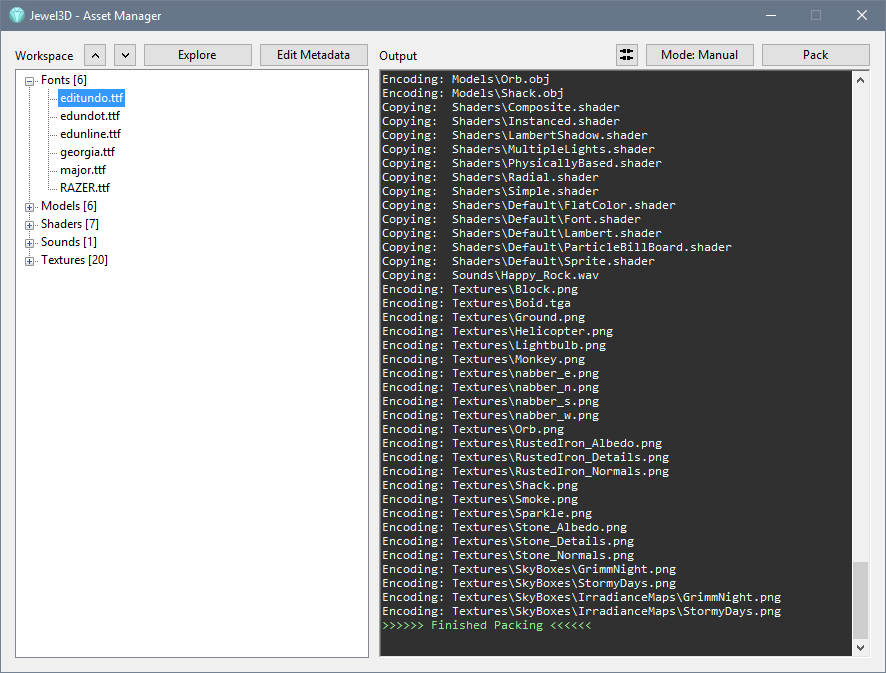
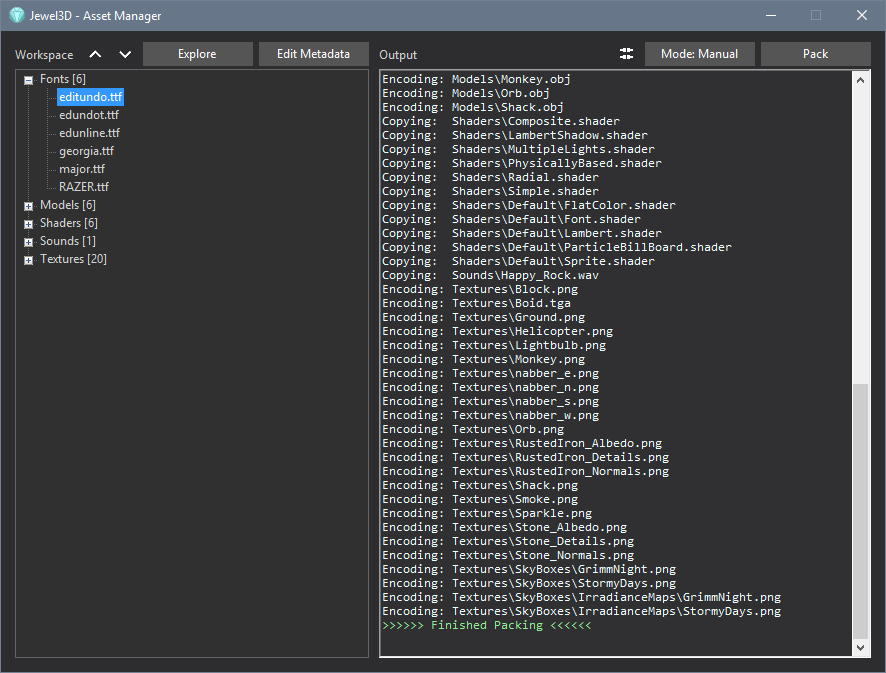
AssetManager now is now dark themed

diff --git a/Tools/AssetManager/Manager.Designer.cs b/Tools/AssetManager/Manager.Designer.cs
@@ -44,17 +44,23 @@
 			// 
 			// ButtonPack
 			// 
-			this.ButtonPack.Location = new System.Drawing.Point(760, 12);
+			this.ButtonPack.BackColor = System.Drawing.Color.FromArgb(((int)(((byte)(85)))), ((int)(((byte)(85)))), ((int)(((byte)(85)))));
+			this.ButtonPack.FlatAppearance.BorderSize = 0;
+			this.ButtonPack.FlatStyle = System.Windows.Forms.FlatStyle.Flat;
+			this.ButtonPack.ForeColor = System.Drawing.SystemColors.ControlLightLight;
+			this.ButtonPack.Location = new System.Drawing.Point(760, 11);
 			this.ButtonPack.Name = "ButtonPack";
 			this.ButtonPack.Size = new System.Drawing.Size(110, 24);
 			this.ButtonPack.TabIndex = 1;
 			this.ButtonPack.Text = "Pack";
-			this.ButtonPack.UseVisualStyleBackColor = true;
+			this.ButtonPack.UseVisualStyleBackColor = false;
 			this.ButtonPack.Click += new System.EventHandler(this.ButtonPack_Click);
 			// 
 			// treeViewAssets
 			// 
-			this.treeViewAssets.BackColor = System.Drawing.SystemColors.Window;
+			this.treeViewAssets.BackColor = System.Drawing.Color.FromArgb(((int)(((byte)(48)))), ((int)(((byte)(48)))), ((int)(((byte)(48)))));
+			this.treeViewAssets.BorderStyle = System.Windows.Forms.BorderStyle.FixedSingle;
+			this.treeViewAssets.ForeColor = System.Drawing.Color.LightGray;
 			this.treeViewAssets.Location = new System.Drawing.Point(14, 38);
 			this.treeViewAssets.Margin = new System.Windows.Forms.Padding(5, 3, 5, 3);
 			this.treeViewAssets.Name = "treeViewAssets";
@@ -64,7 +70,8 @@
 			// labelWorkspace
 			// 
 			this.labelWorkspace.AutoSize = true;
-			this.labelWorkspace.Location = new System.Drawing.Point(11, 17);
+			this.labelWorkspace.ForeColor = System.Drawing.Color.LightGray;
+			this.labelWorkspace.Location = new System.Drawing.Point(11, 16);
 			this.labelWorkspace.Name = "labelWorkspace";
 			this.labelWorkspace.Size = new System.Drawing.Size(65, 15);
 			this.labelWorkspace.TabIndex = 12;
@@ -72,19 +79,24 @@
 			// 
 			// buttonWorkspaceOpen
 			// 
-			this.buttonWorkspaceOpen.Location = new System.Drawing.Point(142, 12);
+			this.buttonWorkspaceOpen.BackColor = System.Drawing.Color.FromArgb(((int)(((byte)(85)))), ((int)(((byte)(85)))), ((int)(((byte)(85)))));
+			this.buttonWorkspaceOpen.FlatAppearance.BorderSize = 0;
+			this.buttonWorkspaceOpen.FlatStyle = System.Windows.Forms.FlatStyle.Flat;
+			this.buttonWorkspaceOpen.ForeColor = System.Drawing.SystemColors.ControlLightLight;
+			this.buttonWorkspaceOpen.Location = new System.Drawing.Point(142, 11);
 			this.buttonWorkspaceOpen.Name = "buttonWorkspaceOpen";
 			this.buttonWorkspaceOpen.Size = new System.Drawing.Size(110, 24);
 			this.buttonWorkspaceOpen.TabIndex = 14;
 			this.buttonWorkspaceOpen.Text = "Explore";
-			this.buttonWorkspaceOpen.UseVisualStyleBackColor = true;
+			this.buttonWorkspaceOpen.UseVisualStyleBackColor = false;
 			this.buttonWorkspaceOpen.Click += new System.EventHandler(this.buttonWorkspaceOpen_Click);
 			// 
 			// label1
 			// 
 			this.label1.AutoSize = true;
 			this.label1.Font = new System.Drawing.Font("Segoe UI", 9F, System.Drawing.FontStyle.Regular, System.Drawing.GraphicsUnit.Point, ((byte)(0)));
-			this.label1.Location = new System.Drawing.Point(375, 17);
+			this.label1.ForeColor = System.Drawing.Color.LightGray;
+			this.label1.Location = new System.Drawing.Point(375, 16);
 			this.label1.Name = "label1";
 			this.label1.Size = new System.Drawing.Size(45, 15);
 			this.label1.TabIndex = 16;
@@ -92,7 +104,8 @@
 			// 
 			// Output
 			// 
-			this.Output.BackColor = System.Drawing.Color.FromArgb(((int)(((byte)(48)))), ((int)(((byte)(48)))), ((int)(((byte)(48)))));
+			this.Output.BackColor = System.Drawing.Color.FromArgb(((int)(((byte)(48)))), ((int)(((byte)(48)))), ((int)(((byte)(50)))));
+			this.Output.BorderStyle = System.Windows.Forms.BorderStyle.FixedSingle;
 			this.Output.Font = new System.Drawing.Font("Consolas", 9F, System.Drawing.FontStyle.Regular, System.Drawing.GraphicsUnit.Point, ((byte)(0)));
 			this.Output.ForeColor = System.Drawing.Color.LightGray;
 			this.Output.Location = new System.Drawing.Point(378, 38);
@@ -106,31 +119,44 @@
 			// 
 			// buttonCollapse
 			// 
+			this.buttonCollapse.BackColor = System.Drawing.Color.FromArgb(((int)(((byte)(45)))), ((int)(((byte)(45)))), ((int)(((byte)(48)))));
 			this.buttonCollapse.BackgroundImage = global::AssetManager.Properties.Resources.Collapse;
 			this.buttonCollapse.BackgroundImageLayout = System.Windows.Forms.ImageLayout.Stretch;
-			this.buttonCollapse.Location = new System.Drawing.Point(82, 12);
+			this.buttonCollapse.FlatAppearance.BorderSize = 0;
+			this.buttonCollapse.FlatAppearance.MouseOverBackColor = System.Drawing.Color.FromArgb(((int)(((byte)(67)))), ((int)(((byte)(67)))), ((int)(((byte)(67)))));
+			this.buttonCollapse.FlatStyle = System.Windows.Forms.FlatStyle.Flat;
+			this.buttonCollapse.ForeColor = System.Drawing.SystemColors.ControlLight;
+			this.buttonCollapse.Location = new System.Drawing.Point(82, 11);
 			this.buttonCollapse.Name = "buttonCollapse";
 			this.buttonCollapse.Size = new System.Drawing.Size(24, 24);
 			this.buttonCollapse.TabIndex = 27;
-			this.buttonCollapse.UseVisualStyleBackColor = true;
+			this.buttonCollapse.UseVisualStyleBackColor = false;
 			this.buttonCollapse.Click += new System.EventHandler(this.buttonCollapse_Click);
 			// 
 			// buttonExpand
 			// 
+			this.buttonExpand.BackColor = System.Drawing.Color.FromArgb(((int)(((byte)(45)))), ((int)(((byte)(45)))), ((int)(((byte)(48)))));
 			this.buttonExpand.BackgroundImage = global::AssetManager.Properties.Resources.Expand;
 			this.buttonExpand.BackgroundImageLayout = System.Windows.Forms.ImageLayout.Zoom;
-			this.buttonExpand.Location = new System.Drawing.Point(112, 12);
+			this.buttonExpand.FlatAppearance.BorderSize = 0;
+			this.buttonExpand.FlatAppearance.MouseOverBackColor = System.Drawing.Color.FromArgb(((int)(((byte)(67)))), ((int)(((byte)(67)))), ((int)(((byte)(67)))));
+			this.buttonExpand.FlatStyle = System.Windows.Forms.FlatStyle.Flat;
+			this.buttonExpand.ForeColor = System.Drawing.SystemColors.ControlLight;
+			this.buttonExpand.Location = new System.Drawing.Point(112, 11);
 			this.buttonExpand.Name = "buttonExpand";
 			this.buttonExpand.Size = new System.Drawing.Size(24, 24);
 			this.buttonExpand.TabIndex = 26;
-			this.buttonExpand.UseVisualStyleBackColor = true;
+			this.buttonExpand.UseVisualStyleBackColor = false;
 			this.buttonExpand.Click += new System.EventHandler(this.buttonExpand_Click);
 			// 
 			// ButtonSettings
 			// 
 			this.ButtonSettings.BackgroundImage = ((System.Drawing.Image)(resources.GetObject("ButtonSettings.BackgroundImage")));
 			this.ButtonSettings.BackgroundImageLayout = System.Windows.Forms.ImageLayout.Center;
-			this.ButtonSettings.Location = new System.Drawing.Point(614, 12);
+			this.ButtonSettings.FlatAppearance.BorderSize = 0;
+			this.ButtonSettings.FlatAppearance.MouseOverBackColor = System.Drawing.Color.FromArgb(((int)(((byte)(67)))), ((int)(((byte)(67)))), ((int)(((byte)(67)))));
+			this.ButtonSettings.FlatStyle = System.Windows.Forms.FlatStyle.Flat;
+			this.ButtonSettings.Location = new System.Drawing.Point(614, 11);
 			this.ButtonSettings.Name = "ButtonSettings";
 			this.ButtonSettings.Size = new System.Drawing.Size(24, 24);
 			this.ButtonSettings.TabIndex = 23;
@@ -139,28 +165,37 @@
 			// 
 			// buttonEditMetadata
 			// 
+			this.buttonEditMetadata.BackColor = System.Drawing.Color.FromArgb(((int)(((byte)(85)))), ((int)(((byte)(85)))), ((int)(((byte)(85)))));
 			this.buttonEditMetadata.Enabled = false;
-			this.buttonEditMetadata.Location = new System.Drawing.Point(258, 12);
+			this.buttonEditMetadata.FlatAppearance.BorderSize = 0;
+			this.buttonEditMetadata.FlatStyle = System.Windows.Forms.FlatStyle.Flat;
+			this.buttonEditMetadata.ForeColor = System.Drawing.SystemColors.ControlLightLight;
+			this.buttonEditMetadata.Location = new System.Drawing.Point(258, 11);
 			this.buttonEditMetadata.Name = "buttonEditMetadata";
 			this.buttonEditMetadata.Size = new System.Drawing.Size(110, 24);
 			this.buttonEditMetadata.TabIndex = 28;
 			this.buttonEditMetadata.Text = "Edit Metadata";
-			this.buttonEditMetadata.UseVisualStyleBackColor = true;
+			this.buttonEditMetadata.UseVisualStyleBackColor = false;
 			// 
 			// ButtonMode
 			// 
-			this.ButtonMode.Location = new System.Drawing.Point(644, 12);
+			this.ButtonMode.BackColor = System.Drawing.Color.FromArgb(((int)(((byte)(85)))), ((int)(((byte)(85)))), ((int)(((byte)(85)))));
+			this.ButtonMode.FlatAppearance.BorderSize = 0;
+			this.ButtonMode.FlatStyle = System.Windows.Forms.FlatStyle.Flat;
+			this.ButtonMode.ForeColor = System.Drawing.SystemColors.ControlLightLight;
+			this.ButtonMode.Location = new System.Drawing.Point(644, 11);
 			this.ButtonMode.Name = "ButtonMode";
 			this.ButtonMode.Size = new System.Drawing.Size(110, 24);
 			this.ButtonMode.TabIndex = 29;
 			this.ButtonMode.Text = "Mode: Manual";
-			this.ButtonMode.UseVisualStyleBackColor = true;
+			this.ButtonMode.UseVisualStyleBackColor = false;
 			this.ButtonMode.Click += new System.EventHandler(this.ButtonMode_Click);
 			// 
 			// Manager
 			// 
 			this.AutoScaleDimensions = new System.Drawing.SizeF(7F, 15F);
 			this.AutoScaleMode = System.Windows.Forms.AutoScaleMode.Font;
+			this.BackColor = System.Drawing.Color.FromArgb(((int)(((byte)(45)))), ((int)(((byte)(45)))), ((int)(((byte)(48)))));
 			this.ClientSize = new System.Drawing.Size(884, 641);
 			this.Controls.Add(this.ButtonMode);
 			this.Controls.Add(this.buttonEditMetadata);

diff --git a/Tools/AssetManager/Settings.Designer.cs b/Tools/AssetManager/Settings.Designer.cs
@@ -42,7 +42,9 @@
 			// label1
 			// 
 			this.label1.AutoSize = true;
-			this.label1.Location = new System.Drawing.Point(38, 74);
+			this.label1.Font = new System.Drawing.Font("Segoe UI", 9F);
+			this.label1.ForeColor = System.Drawing.Color.LightGray;
+			this.label1.Location = new System.Drawing.Point(38, 69);
 			this.label1.Name = "label1";
 			this.label1.Size = new System.Drawing.Size(35, 15);
 			this.label1.TabIndex = 3;
@@ -51,7 +53,9 @@
 			// label2
 			// 
 			this.label2.AutoSize = true;
-			this.label2.Location = new System.Drawing.Point(88, 74);
+			this.label2.Font = new System.Drawing.Font("Segoe UI", 9F);
+			this.label2.ForeColor = System.Drawing.Color.LightGray;
+			this.label2.Location = new System.Drawing.Point(88, 69);
 			this.label2.Name = "label2";
 			this.label2.Size = new System.Drawing.Size(50, 15);
 			this.label2.TabIndex = 4;
@@ -59,6 +63,7 @@
 			// 
 			// panel
 			// 
+			this.panel.BackColor = System.Drawing.Color.FromArgb(((int)(((byte)(48)))), ((int)(((byte)(48)))), ((int)(((byte)(50)))));
 			this.panel.BorderStyle = System.Windows.Forms.BorderStyle.FixedSingle;
 			this.panel.Location = new System.Drawing.Point(12, 90);
 			this.panel.Name = "panel";
@@ -67,35 +72,44 @@
 			// 
 			// buttonAdd
 			// 
+			this.buttonAdd.BackColor = System.Drawing.Color.FromArgb(((int)(((byte)(85)))), ((int)(((byte)(85)))), ((int)(((byte)(85)))));
+			this.buttonAdd.FlatAppearance.BorderSize = 0;
+			this.buttonAdd.FlatStyle = System.Windows.Forms.FlatStyle.Flat;
 			this.buttonAdd.Font = new System.Drawing.Font("Segoe UI", 9F);
+			this.buttonAdd.ForeColor = System.Drawing.SystemColors.ControlLightLight;
 			this.buttonAdd.Location = new System.Drawing.Point(561, 64);
 			this.buttonAdd.Name = "buttonAdd";
 			this.buttonAdd.Size = new System.Drawing.Size(111, 24);
 			this.buttonAdd.TabIndex = 9999;
 			this.buttonAdd.Text = "Add";
-			this.buttonAdd.UseVisualStyleBackColor = true;
+			this.buttonAdd.UseVisualStyleBackColor = false;
 			this.buttonAdd.Click += new System.EventHandler(this.buttonAdd_Click);
 			// 
 			// LabelOutputDirectory
 			// 
 			this.LabelOutputDirectory.AutoSize = true;
+			this.LabelOutputDirectory.ForeColor = System.Drawing.Color.LightGray;
 			this.LabelOutputDirectory.Location = new System.Drawing.Point(12, 9);
 			this.LabelOutputDirectory.Name = "LabelOutputDirectory";
-			this.LabelOutputDirectory.Size = new System.Drawing.Size(92, 15);
+			this.LabelOutputDirectory.Size = new System.Drawing.Size(95, 15);
 			this.LabelOutputDirectory.TabIndex = 10000;
-			this.LabelOutputDirectory.Text = "Ouput Directory";
+			this.LabelOutputDirectory.Text = "Ouput Directory:";
 			// 
 			// LabelExcludedExtensions
 			// 
 			this.LabelExcludedExtensions.AutoSize = true;
+			this.LabelExcludedExtensions.ForeColor = System.Drawing.Color.LightGray;
 			this.LabelExcludedExtensions.Location = new System.Drawing.Point(12, 38);
 			this.LabelExcludedExtensions.Name = "LabelExcludedExtensions";
-			this.LabelExcludedExtensions.Size = new System.Drawing.Size(112, 15);
+			this.LabelExcludedExtensions.Size = new System.Drawing.Size(115, 15);
 			this.LabelExcludedExtensions.TabIndex = 10001;
-			this.LabelExcludedExtensions.Text = "Excluded Extensions";
+			this.LabelExcludedExtensions.Text = "Excluded Extensions:";
 			// 
 			// TextBoxOutputDirectory
 			// 
+			this.TextBoxOutputDirectory.BackColor = System.Drawing.Color.FromArgb(((int)(((byte)(37)))), ((int)(((byte)(37)))), ((int)(((byte)(38)))));
+			this.TextBoxOutputDirectory.BorderStyle = System.Windows.Forms.BorderStyle.FixedSingle;
+			this.TextBoxOutputDirectory.ForeColor = System.Drawing.SystemColors.Info;
 			this.TextBoxOutputDirectory.Location = new System.Drawing.Point(133, 6);
 			this.TextBoxOutputDirectory.Name = "TextBoxOutputDirectory";
 			this.TextBoxOutputDirectory.Size = new System.Drawing.Size(539, 23);
@@ -104,6 +118,9 @@
 			// 
 			// TextBoxExcludedExtensions
 			// 
+			this.TextBoxExcludedExtensions.BackColor = System.Drawing.Color.FromArgb(((int)(((byte)(37)))), ((int)(((byte)(37)))), ((int)(((byte)(38)))));
+			this.TextBoxExcludedExtensions.BorderStyle = System.Windows.Forms.BorderStyle.FixedSingle;
+			this.TextBoxExcludedExtensions.ForeColor = System.Drawing.SystemColors.Info;
 			this.TextBoxExcludedExtensions.Location = new System.Drawing.Point(133, 35);
 			this.TextBoxExcludedExtensions.Name = "TextBoxExcludedExtensions";
 			this.TextBoxExcludedExtensions.Size = new System.Drawing.Size(539, 23);
@@ -114,6 +131,7 @@
 			// 
 			this.AutoScaleDimensions = new System.Drawing.SizeF(7F, 15F);
 			this.AutoScaleMode = System.Windows.Forms.AutoScaleMode.Font;
+			this.BackColor = System.Drawing.Color.FromArgb(((int)(((byte)(45)))), ((int)(((byte)(45)))), ((int)(((byte)(48)))));
 			this.ClientSize = new System.Drawing.Size(684, 311);
 			this.Controls.Add(this.TextBoxExcludedExtensions);
 			this.Controls.Add(this.TextBoxOutputDirectory);

diff --git a/Tools/AssetManager/EncoderEntry.cs b/Tools/AssetManager/EncoderEntry.cs
@@ -130,16 +130,27 @@ namespace AssetManager
 			extensionBox.Size = new Size(45, 23);
 			extensionBox.TabIndex = tabIndex++;
 			extensionBox.Font = font;
+			extensionBox.BackColor = Color.FromArgb(37, 37, 38);
+			extensionBox.ForeColor = SystemColors.Info;
+			extensionBox.BorderStyle = BorderStyle.FixedSingle;
 			extensionBox.TextChanged += delegate { Validate(); };
 
 			encoderBox.Size = new Size(500, 23);
 			encoderBox.TabIndex = tabIndex++;
 			encoderBox.Font = font;
+			encoderBox.BackColor = Color.FromArgb(37, 37, 38);
+			encoderBox.ForeColor = SystemColors.Info;
+			encoderBox.BorderStyle = BorderStyle.FixedSingle;
 			encoderBox.TextChanged += delegate { Validate(); };
 
 			search.Size = new Size(23, 23);
 			search.BackgroundImage = Properties.Resources.Search;
 			search.BackgroundImageLayout = ImageLayout.Stretch;
+			search.FlatAppearance.MouseOverBackColor = Color.FromArgb(69, 69, 69);
+			search.FlatAppearance.BorderSize = 0;
+			search.BackColor = Color.FromArgb(48, 48, 50);
+			search.ForeColor = SystemColors.ControlLightLight;
+			search.FlatStyle = FlatStyle.Flat;
 			search.TabIndex = tabIndex++;
 			search.UseVisualStyleBackColor = true;
 			search.Click += delegate { SearchForEncoder(); };
@@ -147,6 +158,11 @@ namespace AssetManager
 			delete.Size = new Size(23, 23);
 			delete.BackgroundImage = Properties.Resources.Delete;
 			delete.BackgroundImageLayout = ImageLayout.Stretch;
+			delete.FlatAppearance.MouseOverBackColor = Color.FromArgb(69, 69, 69);
+			delete.FlatAppearance.BorderSize = 0;
+			delete.BackColor = Color.FromArgb(48, 48, 50);
+			delete.ForeColor = SystemColors.ControlLightLight;
+			delete.FlatStyle = FlatStyle.Flat;
 			delete.TabIndex = tabIndex++;
 			delete.UseVisualStyleBackColor = true;
 			delete.Click += delegate
